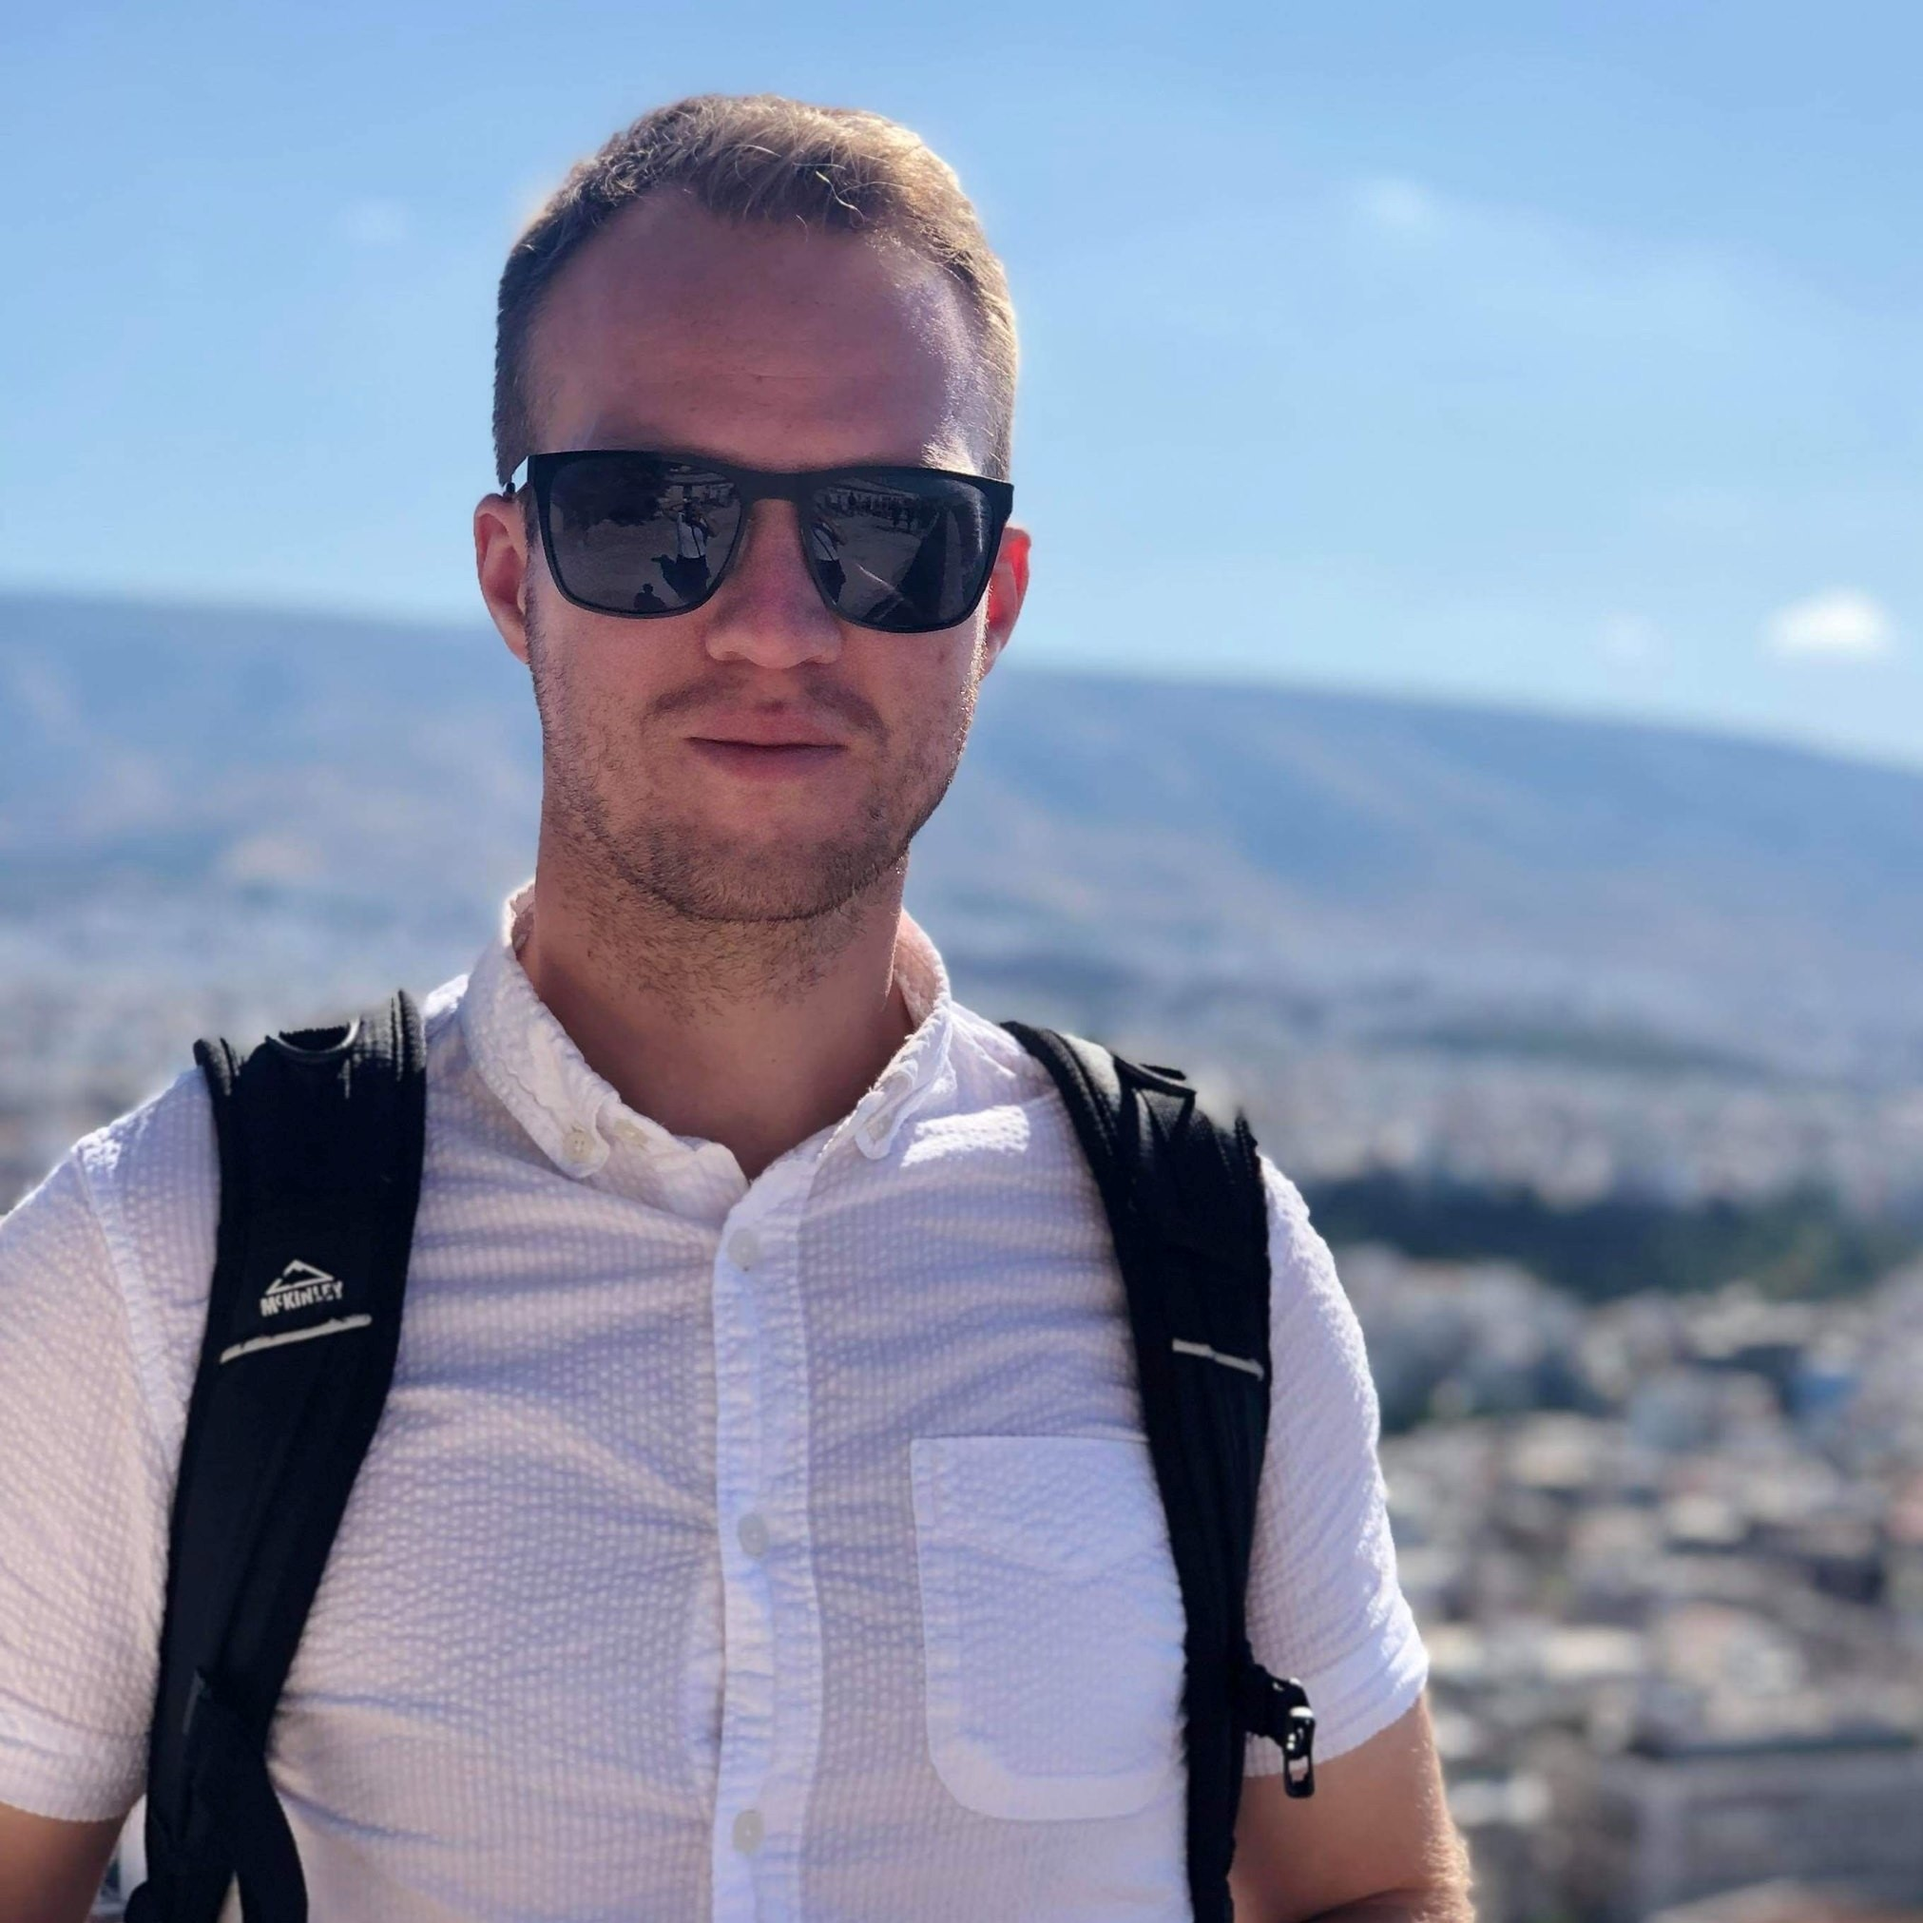
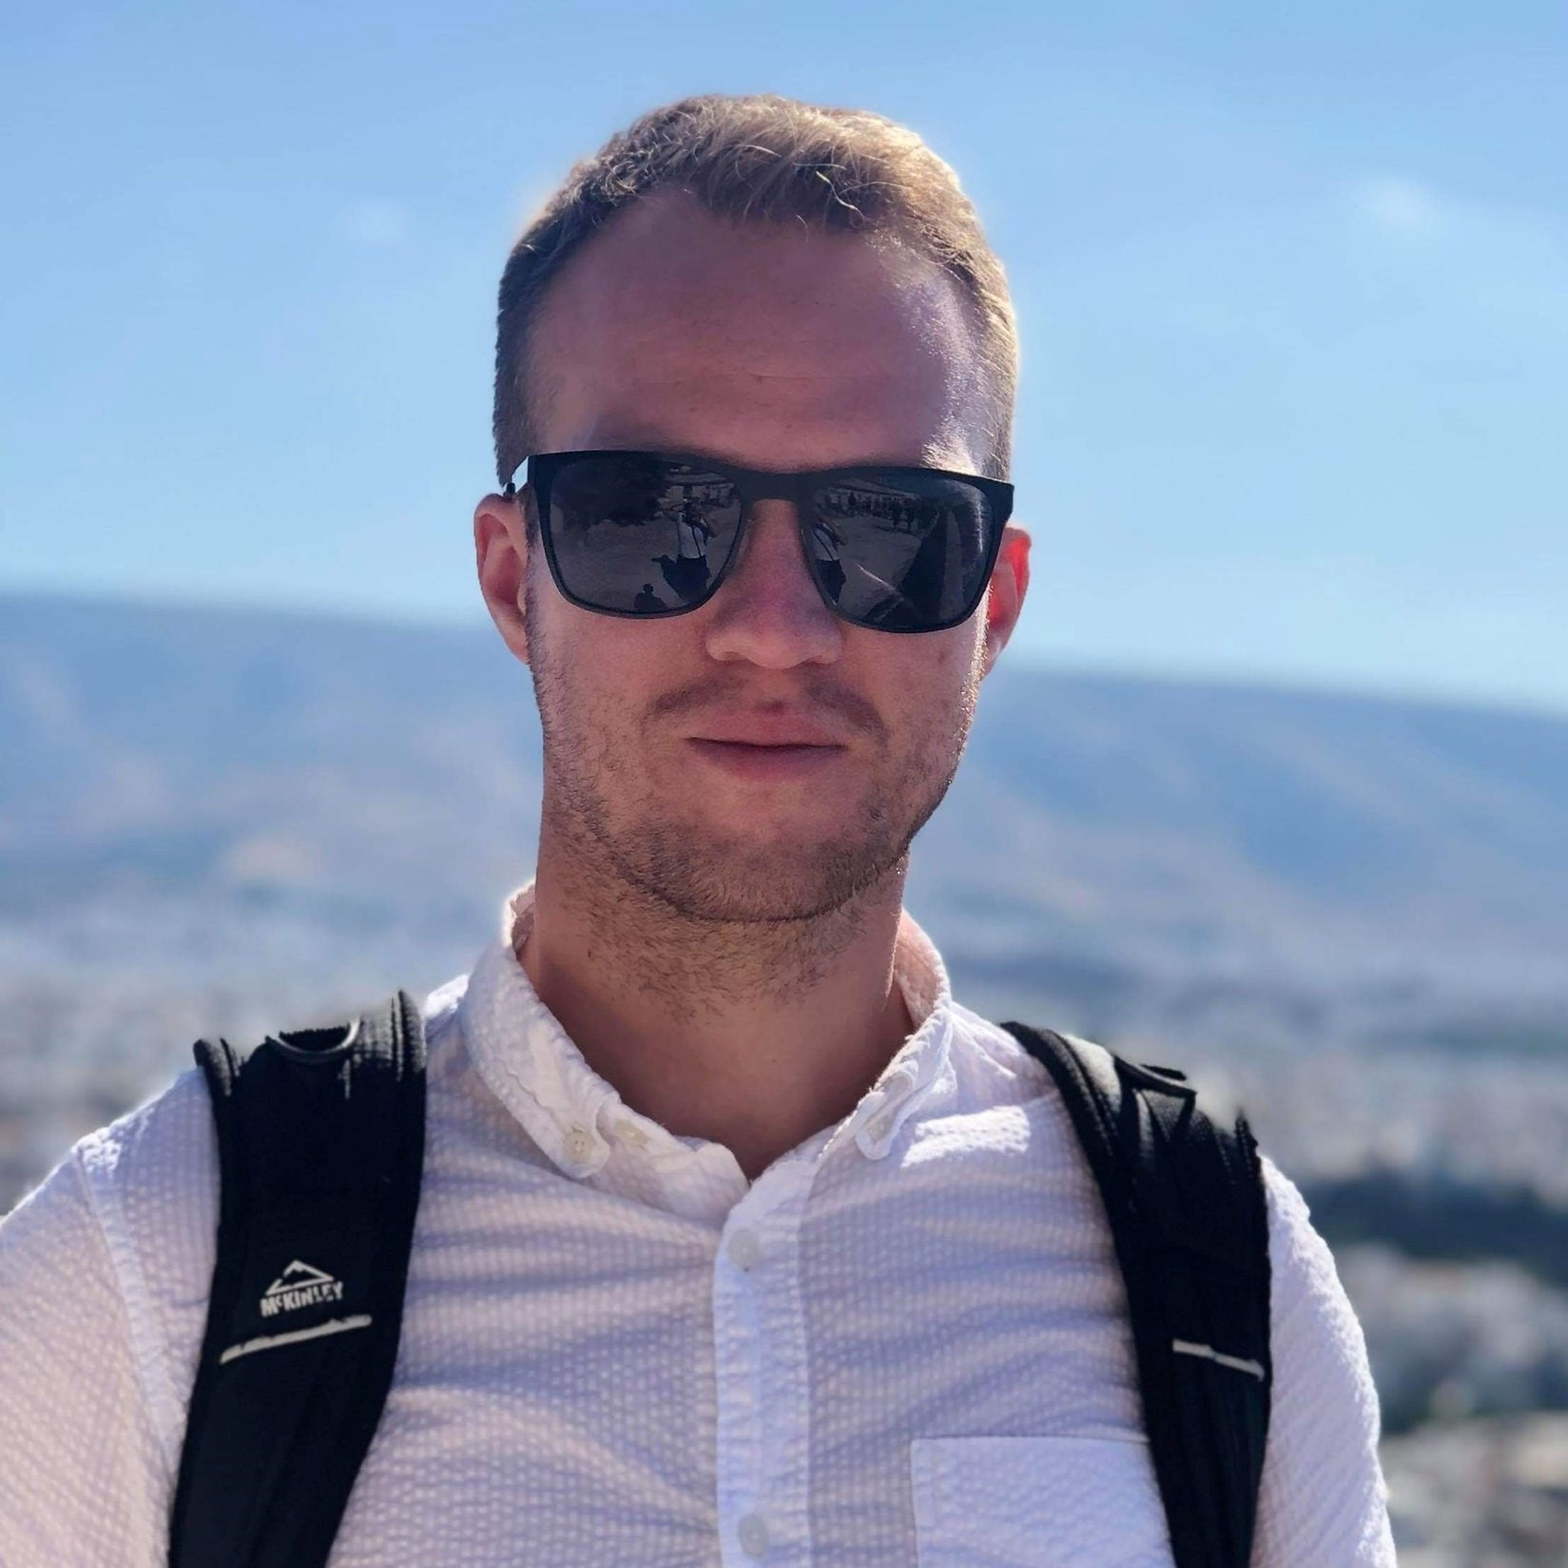
round border on images and updated photos

diff --git a/index.html b/index.html
@@ -1,127 +1,187 @@
 <!doctype html>
 <html lang="no">
-  <head>
-    <meta charset="utf-8">
-    <meta name="viewport" content="width=device-width, initial-scale=1">
-    <title>Gruppe 1</title>
-    <link rel="stylesheet" href="css/style.css">
-    <link href="https://cdn.jsdelivr.net/npm/bootstrap@5.2.0/dist/css/bootstrap.min.css" rel="stylesheet" integrity="sha384-gH2yIJqKdNHPEq0n4Mqa/HGKIhSkIHeL5AyhkYV8i59U5AR6csBvApHHNl/vI1Bx" crossorigin="anonymous">
-    <link rel="stylesheet" href="https://cdn.jsdelivr.net/npm/bootstrap-icons@1.9.1/font/bootstrap-icons.css">
-  </head>
-  <body>
 
-    <!-- navbar -->
+<head>
+  <meta charset="utf-8">
+  <meta name="viewport" content="width=device-width, initial-scale=1">
+  <title>Gruppe 1</title>
+  <link rel="stylesheet" href="css/style.css">
+  <link href="https://cdn.jsdelivr.net/npm/bootstrap@5.2.0/dist/css/bootstrap.min.css" rel="stylesheet"
+    integrity="sha384-gH2yIJqKdNHPEq0n4Mqa/HGKIhSkIHeL5AyhkYV8i59U5AR6csBvApHHNl/vI1Bx" crossorigin="anonymous">
+  <link rel="stylesheet" href="https://cdn.jsdelivr.net/npm/bootstrap-icons@1.9.1/font/bootstrap-icons.css">
+</head>
 
-    <nav class="navbar navbar-expand-lg navbar-light bg-light">
-      <div class="container">
-        <a class="navbar-brand" href="#">Gruppe 1</a>
-        <button class="navbar-toggler" type="button" data-bs-toggle="collapse" data-bs-target="#navbarSupportedContent" aria-controls="navbarSupportedContent" aria-expanded="false" aria-label="Toggle navigation">
-          <span class="navbar-toggler-icon"></span>
-        </button>
-        <div class="collapse navbar-collapse" id="navbarSupportedContent">
-          <ul class="navbar-nav ms-auto mb-2 mb-lg-0">
-            <li class="nav-item">
-              <a class="nav-link " href="#Om oss">Om oss</a>
-            </li>
-            <li class="nav-item">
-              <a class="nav-link" href="#Gruppemedlemmer">Gruppemedlemmer</a>
-            </li>
-            <li class="nav-item">
-              <a class="nav-link" href="#Mem">Mem</a>
-            </li>
-          </ul>
-        </div>
-      </div>
-    </nav>
+<body>
 
-    <div class="px-4 py-3 my-3 text-center">
-      <h1 id="Om oss" class="display-5 fw-bold">Om oss</h1>
-      <div class="col-lg-8 mx-auto">
-        <p class="lead mb-4">Teamet består av fem engasjerte studenter med stor interesse for teknologi og innovasjon. Gjennom hele studiet, har vi samarbeidet på en rekke prosjekter i løpet av de siste 2,5 årene. Vi opererer effektivt med fokus på detaljer og gode resultater. Ambisjonsnivået vårt ligger derfor ganske høyt og er opptatt at sluttresultatet treffer kravene og behovet bedriften ser etter. Vi syns det er spennende å møte på utfordringer, samt komme deretter med gode løsninger. Vi har sterkt gruppedynamikk med bred kompetanse av ulike fagområder. Vi liker derfor å dele oss inn i ulike roller, og arbeid etter enkeltes styrke. Vårt felles mål er å sikte etter de beste resultatene. Med dette mener vi, best mulig karakter.Blant de mange fagområdene teamet har arbeidet med gjennom studiet, kunne vi spesielt tenke oss en oppgave som innebærer utvikling av både frontend og backend, og UX-design.</p>
+  <!-- navbar -->
+
+  <nav class="navbar navbar-expand-lg navbar-light bg-light">
+    <div class="container">
+      <a class="navbar-brand" href="#">Gruppe 1</a>
+      <button class="navbar-toggler" type="button" data-bs-toggle="collapse" data-bs-target="#navbarSupportedContent"
+        aria-controls="navbarSupportedContent" aria-expanded="false" aria-label="Toggle navigation">
+        <span class="navbar-toggler-icon"></span>
+      </button>
+      <div class="collapse navbar-collapse" id="navbarSupportedContent">
+        <ul class="navbar-nav ms-auto mb-2 mb-lg-0">
+          <li class="nav-item">
+            <a class="nav-link " href="#Om oss">Om oss</a>
+          </li>
+          <li class="nav-item">
+            <a class="nav-link" href="#Gruppemedlemmer">Gruppemedlemmer</a>
+          </li>
+          <li class="nav-item">
+            <a class="nav-link" href="#Mem">Mem</a>
+          </li>
+        </ul>
       </div>
     </div>
+  </nav>
 
-    <!-- Personer -->
+  <div class="px-4 py-3 my-3 text-center">
+    <h1 id="Om oss" class="display-5 fw-bold">Om oss</h1>
+    <div class="col-lg-8 mx-auto">
+      <p class="lead mb-4">Teamet består av fem engasjerte studenter med stor interesse for teknologi og innovasjon.
+        Gjennom hele studiet, har vi samarbeidet på en rekke prosjekter i løpet av de siste 2,5 årene. Vi opererer
+        effektivt med fokus på detaljer og gode resultater. Ambisjonsnivået vårt ligger derfor ganske høyt og er opptatt
+        at sluttresultatet treffer kravene og behovet bedriften ser etter. Vi syns det er spennende å møte på
+        utfordringer, samt komme deretter med gode løsninger. Vi har sterkt gruppedynamikk med bred kompetanse av ulike
+        fagområder. Vi liker derfor å dele oss inn i ulike roller, og arbeid etter enkeltes styrke. Vårt felles mål er å
+        sikte etter de beste resultatene. Med dette mener vi, best mulig karakter.Blant de mange fagområdene teamet har
+        arbeidet med gjennom studiet, kunne vi spesielt tenke oss en oppgave som innebærer utvikling av både frontend og
+        backend, og UX-design.</p>
+    </div>
+  </div>
 
-    <div class="container">
-      <div id="Gruppemedlemmer" class="text-center display-5 fw-bold mb-3">Gruppemedlemmer</div>
-      <div class="row justify-content-between">
-        <div class="col">
-          <div class="card border-0">
-            <img class="card-img-top rounded-circle p-3" src="img/johannes.jpg" alt="Card image">
+  <!-- Personer -->
+  <div class="card-group">
+    <div class="col-lg-6 py-3">
+      <div class="card border-0 mb-2" style="max-width: 1040px;">
+        <div class="row g-0">
+          <div class="col-md-4 align-self-center">
+            <img src="img/johannes.jpg" class="img-fluid rounded-circle p-1" alt="profile picture">
+          </div>
+          <div class="col-md-8">
             <div class="card-body">
               <h4 class="card-title">
                 <a href="https://www.linkedin.com/in/johannesleite/"><i class="bi-linkedin linkedInBtn"></i></a>
                 Johannes Leite
               </h4>
-              <p class="card-text">Jeg er interessert i både front- og backendutvikling og har erfaring innen begge deler fra tidligere prosjekter. Som person er jeg nøye, målrettet og opptatt av kvalitet i arbeidet mitt.</p>
-            </div>
-          </div>
-        </div>
-
-        <div class="col">
-          <div class="card border-0">
-            <img class="card-img-top rounded-circle p-3" src="img/erlend.jpg" alt="Card image">
-            <div class="card-body">
-              <h4 class="card-title">
-                <a href="https://www.linkedin.com/in/erlendlotsberg/"><i class="bi-linkedin linkedInBtn"></i></a>
-                Erlend Lotsberg
-              </h4>
-              <p class="card-text">Mine hovedinteresser innenfor IT inkluderer utvikling, database, samt data og analyse. Jeg er kreativ, god til å løse problemer, allsidig, og lærer raskt. Jeg ønsker å dyrke denne allsidigheten, og mitt mål er å bli full stack- eller back end-utvikler, men kanskje også med en dreining mot data science.
-                <br><br>
-                Jeg er en rolig og mild person og er opptatt av å få det beste ut av de rundt meg, for da vil teamet vårt fungere bedre.
-                </p>
-            </div>
-          </div>
-        </div>
-
-        <div class="col">
-          <div class="card border-0">
-            <img class="card-img-top rounded-circle p-3" src="img/karen.jpg" alt="Card image">
-            <div class="card-body">
-              <h4 class="card-title">
-                <a href="https://www.linkedin.com/in/karen-thorsen/"><i class="bi-linkedin linkedInBtn"></i></a>
-                Karen Thorsen
-              </h4>
-              <p class="card-text">Karen Thorsen, 28 år gammel og er fra Grimstad. Har fra tidligere en mastergrad innen "Multimedia and educational technology". Jeg brenner for innovasjon, utvikling og teknologi, samt har erfaring innen produktutvikling og research. Lidenskapelig for tjenestedesign og UX. Liker å finne gode designløsninger og som både er praktiske, brukervennlige og estetiske i utvikling av front-end design eller visualisering av data. .</p>
-            </div>
-          </div>
-        </div>
-
-        <div class="col">
-          <div class="card border-0">
-            <img class="card-img-top rounded-circle p-3" src="img/Tai.png" alt="Card image">
-            <div class="card-body">
-              <h4 class="card-title">
-                <a href="https://www.linkedin.com/in/karen-thorsen/"><i class="bi-linkedin linkedInBtn"></i></a>
-                Tai-Gwen Woo
-              </h4>
-              <p class="card-text">Jeg har en stor interesse for webutvikling og er opptatt av brukeropplevelse og universell utforming. Min styrke er at jeg er nysgjerrig og lærevillig.</p>
-            </div>
-          </div>
-        </div>
-
-        <div class="col">
-          <div class="card border-0">
-            <img class="card-img-top rounded-circle p-3" src="img/joachim.jpg" alt="Card image">
-            <div class="card-body">
-              <h4 class="card-title">
-                <a href="https://www.linkedin.com/in/karen-thorsen/"><i class="bi-linkedin linkedInBtn"></i></a>
-                Joachim Western
-              </h4>
-              <p class="card-text">Jeg fascinerer meg over læren om hvordan datamaskiner fungerer og hvordan de kan programmeres. Teknologi inspirerer meg til utvikling og jeg brenner for å skape nye løsninger. Jeg har erfaring med systemutvikling fra Norkart AS i både front end og back end.</p>
+              <p class="card-text">Jeg er interessert i både front- og backendutvikling og har erfaring innen begge
+                deler
+                fra tidligere prosjekter. Som person er jeg nøye, målrettet og opptatt av kvalitet i arbeidet mitt.Jeg
+                er
+                interessert i både front- og backendutvikling og har erfaring innen begge deler fra tidligere
+                prosjekter.
+                Som person er jeg nøye, målrettet og opptatt av kvalitet i arbeidet mitt.</p>
             </div>
           </div>
         </div>
       </div>
     </div>
+
+    <div class="col-lg-6 py-3">
+      <div class="card border-0 mb-2" style="max-width: 1040px;">
+        <div class="row g-0">
+          <div class="col-md-4 align-self-center">
+            <img src="img/erlend.jpg" class="img-fluid rounded-circle p-1" alt="profile picture">
+          </div>
+          <div class="col-md-8">
+            <div class="card-body">
+              <h4 class="card-title">
+                <a href="https://www.linkedin.com/in/erlendlotsberg/"><i class="bi-linkedin linkedInBtn"></i></a>
+                Erlend Lotsberg
+              </h4>
+              <p class="card-text">Mine hovedinteresser innenfor IT inkluderer utvikling, database, samt data og
+                analyse.
+                Jeg er kreativ, god til å løse problemer, allsidig, og lærer raskt. Jeg ønsker å dyrke denne
+                allsidigheten, og mitt mål er å bli full stack- eller back end-utvikler, men kanskje også med en
+                dreining
+                mot data science. Jeg er en rolig og mild person og er opptatt av å få det beste ut av de rundt meg, for
+                da vil teamet vårt
+                fungere bedre.</p>
+            </div>
+          </div>
+        </div>
+      </div>
+    </div>
+
+    <div class="col-lg-6 py-3">
+      <div class="card border-0 mb-2" style="max-width: 1040px;">
+        <div class="row g-0">
+          <div class="col-md-4 align-self-center">
+            <img src="img/Tai.jpg" class="img-fluid rounded-circle p-1" alt="profile picture">
+          </div>
+          <div class="col-md-8">
+            <div class="card-body">
+              <h4 class="card-title">
+                <a href="https://www.linkedin.com/in/karen-thorsen/"><i class="bi-linkedin linkedInBtn"></i></a>
+                Tai-Gwen Woo
+              </h4>
+              <p class="card-text">Jeg har en stor interesse for webutvikling og er opptatt av brukeropplevelse og
+                universell utforming. Min styrke er at jeg er nysgjerrig og lærevillig. Jeg skal skrive mer her litt
+                senere. Også litt til. Til slutt har jeg nok tekst. Men ikke enda.</p>
+            </div>
+          </div>
+        </div>
+      </div>
+    </div>
+
+    <div class="col-lg-6 py-3">
+      <div class="card border-0 mb-2" style="max-width: 1040px;">
+        <div class="row g-0">
+          <div class="col-md-4 align-self-center">
+            <img src="img/joachim.jpg" class="img-fluid rounded-circle p-1" alt="profile picture">
+          </div>
+          <div class="col-md-8">
+            <div class="card-body">
+              <h4 class="card-title">
+                <a href="https://www.linkedin.com/in/karen-thorsen/"><i class="bi-linkedin linkedInBtn"></i></a>
+                Joachim Western
+              </h4>
+              <p class="card-text">Jeg fascinerer meg over læren om hvordan datamaskiner fungerer og hvordan de kan
+                programmeres. Teknologi inspirerer meg til utvikling og jeg brenner for å skape nye løsninger. Jeg har
+                erfaring med systemutvikling fra Norkart AS i både front end og back end.</p>
+            </div>
+          </div>
+        </div>
+      </div>
+    </div>
+  </div>
+  </div>
+
+  <div class="col-lg-6 py-3">
+    <div class="card border-0 mb-2" style="max-width: 1040px;">
+      <div class="row g-0">
+        <div class="col-md-4 align-self-center" padding: 1rem>
+          <img src="img/karen.jpg" class="img-fluid rounded-circle p-1" alt="profile picture">
+        </div>
+        <div class="col-md-8">
+          <div class="card-body">
+            <h4 class="card-title">
+              <a href="https://www.linkedin.com/in/karen-thorsen/"><i class="bi-linkedin linkedInBtn"></i></a>
+              Karen Thorsen
+            </h4>
+            <p class="card-text">Karen Thorsen, 28 år gammel og er fra Grimstad. Har fra tidligere en mastergrad innen
+              "Multimedia and educational technology". Jeg brenner for innovasjon, utvikling og teknologi, samt har
+              erfaring innen produktutvikling og research. Lidenskapelig for tjenestedesign og UX. Liker å finne gode
+              designløsninger og som både er praktiske, brukervennlige og estetiske i utvikling av front-end design
+              eller visualisering av data.</p>
+          </div>
+        </div>
+      </div>
+    </div>
+
 
     <div class="px-4 py-3 my-3 text-center">
       <h1 id="Mem" class="display-5 fw-bold">Mem</h1>
       <img src="img/haraldomdal.png" alt="">
     </div>
 
-    
-    <script src="https://cdn.jsdelivr.net/npm/bootstrap@5.2.0/dist/js/bootstrap.bundle.min.js" integrity="sha384-A3rJD856KowSb7dwlZdYEkO39Gagi7vIsF0jrRAoQmDKKtQBHUuLZ9AsSv4jD4Xa" crossorigin="anonymous"></script>
-  </body>
+
+    <script src="https://cdn.jsdelivr.net/npm/bootstrap@5.2.0/dist/js/bootstrap.bundle.min.js"
+      integrity="sha384-A3rJD856KowSb7dwlZdYEkO39Gagi7vIsF0jrRAoQmDKKtQBHUuLZ9AsSv4jD4Xa"
+      crossorigin="anonymous"></script>
+</body>
+
 </html>
